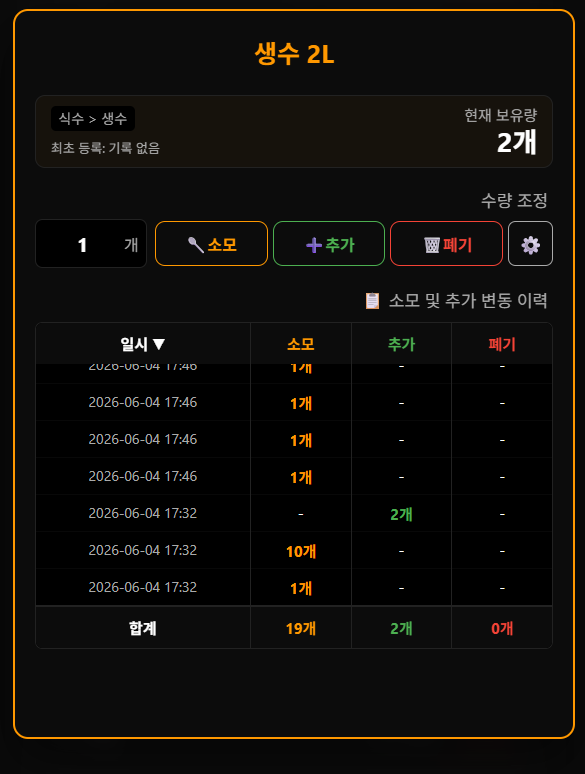
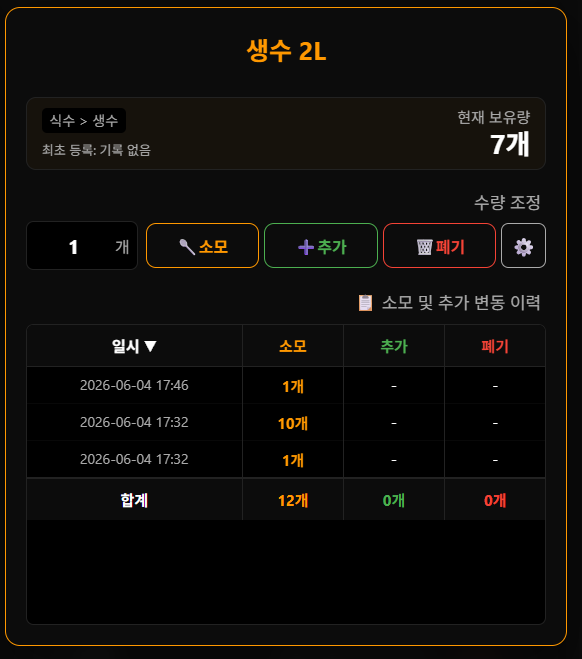
style: Force erp history table to take height 100% so footer summary resides at bottom

diff --git a/index.html b/index.html
@@ -2070,7 +2070,7 @@
                 <div style="flex: 1; display: flex; flex-direction: column; min-height: 0;">
                     <label style="font-size: 0.85rem; color: var(--text-secondary); display: block; margin-bottom: 8px; flex-shrink: 0;">📋 소모 및 추가 변동 이력</label>
                     <div class="scrollbar-hidden" style="flex: 1; overflow-y: auto; border: 1px solid var(--border-color); border-radius: 6px; background: var(--bg-color); min-height: 0;">
-                        <table style="width: 100%; border-collapse: collapse; font-size: 0.75rem; text-align: center; table-layout: fixed;">
+                        <table style="width: 100%; border-collapse: collapse; font-size: 0.75rem; text-align: center; table-layout: fixed; height: 100%;">
                             <thead>
                                 <tr style="background: rgba(255, 255, 255, 0.05); border-bottom: 1px solid var(--border-color); position: sticky; top: 0; z-index: 2; background-color: var(--surface-color);">
                                     <th onclick="toggleErpHistorySort()" style="padding: 8px 4px; font-weight: bold; border-right: 1px solid var(--border-color); width: 43%; cursor: pointer; user-select: none;">일시 <span id="erp_history_sort_btn">▼</span></th>

diff --git a/sw.js b/sw.js
@@ -1,4 +1,4 @@
-const CACHE_NAME = 'survival-tool-v91';
+const CACHE_NAME = 'survival-tool-v92';
 const urlsToCache = [
   './',
   './index.html',